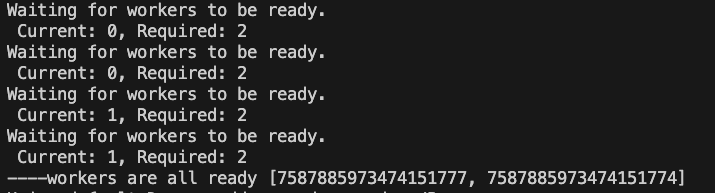
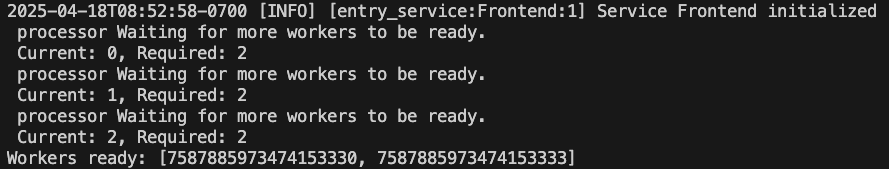
update utils and format

Changed region(s): [[0.0, 0.0, 0.9846, 0.858], [0.0, 0.858, 0.9538, 1.0]]

diff --git a/examples/hello_world/multinode_example/components/processor.py b/examples/hello_world/multinode_example/components/processor.py
@@ -13,16 +13,17 @@
 # See the License for the specific language governing permissions and
 # limitations under the License.
 
-import asyncio
 import logging
 import socket
 from typing import Protocol
 
-from components.utils import GeneralRequest, GeneralResponse
+from components.utils import GeneralRequest, GeneralResponse, check_required_workers
 from components.worker import DummyWorker
 
+from dynamo._core import Client
 from dynamo.sdk import async_on_start, depends, dynamo_context, dynamo_endpoint, service
 from dynamo.sdk.lib.config import ServiceConfig
+from dynamo.sdk.lib.dependency import DynamoClient
 
 logger = logging.getLogger(__name__)
 
@@ -38,7 +39,11 @@ class Processor(Protocol):
     Pre and Post Processing
     """
 
-    worker = depends(DummyWorker)
+    worker: DynamoClient = depends(DummyWorker)
+    router: str
+    hostname: str
+    min_workers: int
+    worker_client: Client
 
     def __init__(self):
         config = ServiceConfig.get_instance()
@@ -57,14 +62,11 @@ class Processor(Protocol):
             .endpoint("generate")
             .client()
         )
-        while len(self.worker_client.endpoint_ids()) < self.min_workers:
-            print(
-                f"Waiting for workers to be ready.\n"
-                f" Current: {len(self.worker_client.endpoint_ids())},"
-                f" Required: {self.min_workers}"
-            )
-            await asyncio.sleep(5)
-        print(f"----workers are all ready {self.worker_client.endpoint_ids()}")
+
+        await check_required_workers(
+            self.worker_client, self.min_workers, tag="processor"
+        )
+        logger.info(f"----workers are all ready {self.worker_client.endpoint_ids()}")
 
     async def _generate(
         self,

diff --git a/examples/hello_world/multinode_example/components/utils.py b/examples/hello_world/multinode_example/components/utils.py
@@ -13,14 +13,47 @@
 # See the License for the specific language governing permissions and
 # limitations under the License.
 
+import asyncio
+import logging
+
 from pydantic import BaseModel
+
+from dynamo._core import Client
+
+logger = logging.getLogger(__name__)
 
 
 class GeneralRequest(BaseModel):
     prompt: str = "user input"
-    request_id: str = None
+    request_id: str = "id_string"
 
 
 class GeneralResponse(BaseModel):
     worker_output: str = "generated output"
-    request_id: str = None
+    request_id: str = "id_string"
+
+
+async def check_required_workers(
+    workers_client: Client,
+    required_workers: int,
+    on_change=True,
+    poll_interval=5,
+    tag="",
+):
+    """Wait until the minimum number of workers are ready."""
+    worker_ids = workers_client.endpoint_ids()
+    num_workers = len(worker_ids)
+    new_count = -1  # Force to log "waiting for worker" once
+    while num_workers < required_workers:
+        if (not on_change) or new_count != num_workers:
+            num_workers = new_count if new_count >= 0 else num_workers
+            logger.info(
+                f" {tag} Waiting for more workers to be ready.\n"
+                f" Current: {num_workers},"
+                f" Required: {required_workers}"
+            )
+        await asyncio.sleep(poll_interval)
+        worker_ids = workers_client.endpoint_ids()
+        new_count = len(worker_ids)
+
+    return worker_ids
